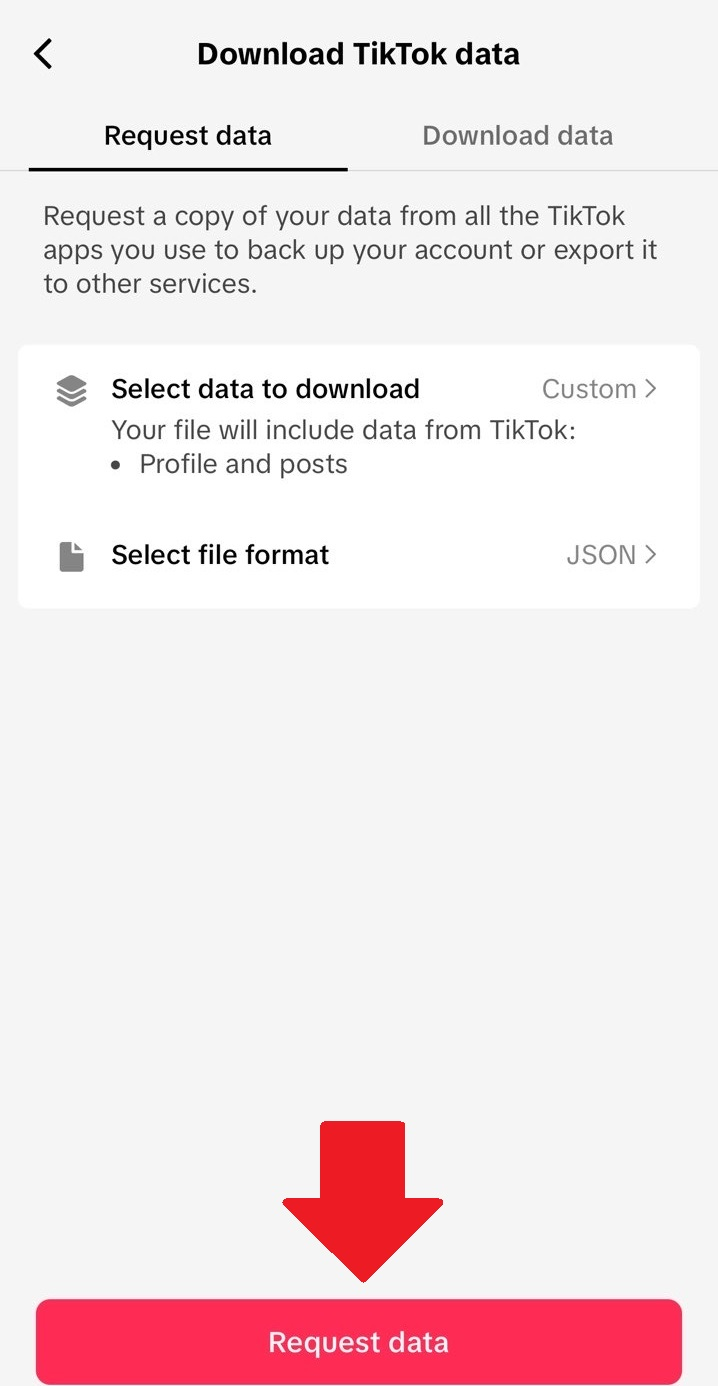
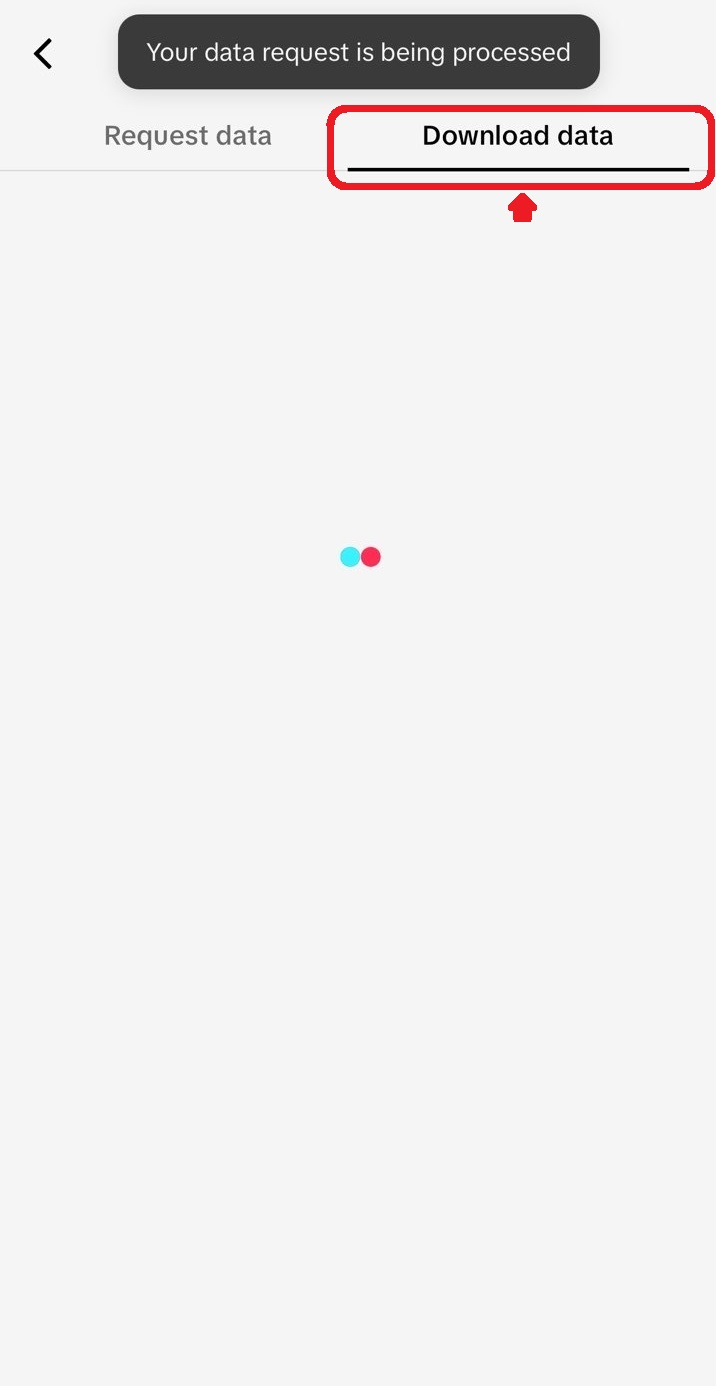
Improved to handle large follower sizes (~<1m)

diff --git a/js/unfollow.js b/js/unfollow.js
@@ -7,14 +7,18 @@ const analyzeButton = document.getElementById('analyzeButton');
 
 // Initially, disable Analyze button
 analyzeButton.disabled = true;
+
 document.getElementById('uploadForm').addEventListener('submit', function(e) {
 	e.preventDefault();
+	// Disable Analyze button to prevent duplicate requests
+	analyzeButton.disabled = true;
 
 	// Prepare results div
 	const statusDiv = document.getElementById('status');
 	const resultsPre = document.getElementById('results');
 	resultsPre.textContent = '';
 	statusDiv.textContent = '';
+	statusDiv.innerHTML = '<span class="loading">Sending data to server...</span>';
 
 	if (fileInput.files.length === 0) {
 		alert('Please select a JSON or ZIP file.');
@@ -24,8 +28,10 @@ document.getElementById('uploadForm').addEventListener('submit', function(e) {
 	const file = fileInput.files[0];
 
 	// Define size limits based on file type
-	const maxJsonSize = 15 * 1024 * 1024; // 15MB
-	const maxZipSize = 2 * 1024 * 1024;   // 2MB
+	// 1m followers is ~95MB
+	// AWS payloads are limited to 10MB. This cannot be changed. This is one of the main reasons for the change in format.
+	const maxJsonSize = 100 * 1024 * 1024; // 100MB
+	const maxZipSize = 15 * 1024 * 1024;   // 15MB
 
 	// Determine file type and validate size
 	const fileNameLower = file.name.toLowerCase();
@@ -37,7 +43,6 @@ document.getElementById('uploadForm').addEventListener('submit', function(e) {
 		maxFileSize = maxJsonSize;
 	} else {
 		alert('Unsupported file type. Please upload a .json or .zip file.');
-		analyzeButton.disabled = false;
 		return;
 	}
 
@@ -46,126 +51,123 @@ document.getElementById('uploadForm').addEventListener('submit', function(e) {
 		return;
 	}
 
-	// Function to process JSON data
-	const processJsonData = (jsonData) => {
-		try {
-			if (!jsonData.hasOwnProperty("Profile And Settings")) {
-				throw new Error('Invalid file');
-			}
-		} catch (err) {
-			analyzeButton.disabled = true;
-			statusDiv.textContent = 'Error: ' + err.message;
-			return;
-		}
-
-		// Extract only required nested data; disable misclicks
-		const extractedData = {};
-		analyzeButton.disabled = true;
-
-		try {
-			if (
-				jsonData["Profile And Settings"] &&
-				jsonData["Profile And Settings"]["Follower"] &&
-				jsonData["Profile And Settings"]["Follower"]["FansList"]
-			) {
-				extractedData["Profile And Settings"] = {
-					...jsonData["Profile And Settings"],
-					Follower: {
-						FansList: jsonData["Profile And Settings"]["Follower"]["FansList"]
-					}
-				};
-			} else {
-				throw new Error('Required nested data not found');
-			}
-		} catch (err) {
-			alert('Could not extract the required data: ' + err.message);
-			return;
-		}
-
-		// Prepare payload for API
-		statusDiv.innerHTML = '<span class="loading">Sending data to server...</span>';
-		const payload = extractedData;
-
+	// Function to send an empty POST to log request
+	const logRequest = () => {
 		fetch(apiUrl, {
 			method: 'POST',
-			headers: {
-				'Content-Type': 'application/json'
-			},
-			body: JSON.stringify(payload)
+			headers: {'Content-Type': 'application/json'},
+			body: JSON.stringify({})
 		})
-		.then(response => {
-			if (response.status === 429) {
-				throw new Error('You have reached the maximum allowed requests per day. Please try again in 24 hours.');
+		.then(res => {
+			if (res.status === 429) {
+				return res.json().then(data => {
+					throw new Error(data.Error || 'Rate limit exceeded.');
+				});
 			}
-			if (!response.ok) {
-				throw new Error('Network response was not ok');
+			if (!res.ok) {
+				return res.json().then(data => {
+					throw new Error(data.message || 'Error logging request.');
+				});
 			}
-			return response.json();
+			// Successful logging
+			processFile(); // Proceed with file processing
 		})
-		.then(data => {
-			statusDiv.textContent = 'Analysis complete!';
-			displayResults(data);
-			document.getElementById('resultsHeader').style.display = 'block';
-			document.getElementById('results').style.display = 'block';
-		})
-		.catch(error => {
-			statusDiv.textContent = 'Error: ' + error.message;
+		.catch(err => {
+			statusDiv.textContent = 'Error: ' + err.message;
 		});
 	};
 
-	// Handle ZIP files
-	if (file.name.endsWith('.zip')) {
-		const reader = new FileReader();
-		reader.onload = function(e) {
-			JSZip.loadAsync(e.target.result)
-			.then(zip => {
-				// Find JSON file inside zip
-				const jsonFileName = Object.keys(zip.files).find(filename => filename.endsWith('.json'));
-				if (!jsonFileName) {
-					alert('No JSON file found inside the ZIP archive.');
-					analyzeButton.disabled = false;
-					return;
+	const processFile = () => {
+		// Handle ZIP files
+		if (file.name.endsWith('.zip')) {
+			const reader = new FileReader();
+			reader.onload = function(e) {
+				JSZip.loadAsync(e.target.result)
+				.then(zip => {
+					const jsonFileName = Object.keys(zip.files).find(filename => filename.endsWith('.json'));
+					if (!jsonFileName) {
+						alert('No JSON file found inside the ZIP archive.');
+						return;
+					}
+					return zip.file(jsonFileName).async('string');
+				})
+				.then(jsonString => {
+					if (jsonString) {
+						const jsonData = JSON.parse(jsonString);
+						handleJsonData(jsonData);
+					}
+				})
+				.catch(err => {
+					alert('Error reading ZIP file: ' + err.message);
+				});
+			};
+			reader.readAsArrayBuffer(file);
+		} else if (file.name.endsWith('.json')) {
+			// Handle JSON files directly
+			const reader = new FileReader();
+			reader.onload = function(e) {
+				try {
+					const jsonData = JSON.parse(e.target.result);
+					handleJsonData(jsonData);
+				} catch (err) {
+					alert('Invalid JSON file. Please upload a valid TikTok JSON file.');
 				}
-				return zip.file(jsonFileName).async('string');
-			})
-			.then(jsonString => {
-				if (jsonString) {
-					const jsonData = JSON.parse(jsonString);
-					processJsonData(jsonData);
-				}
-			})
-			.catch(err => {
-				alert('Error reading ZIP file: ' + err.message);
-				analyzeButton.disabled = false;
-			});
-		};
-		reader.readAsArrayBuffer(file);
-	}
-	// Handle JSON files directly
-	else if (file.name.endsWith('.json')) {
-		const reader = new FileReader();
-		reader.onload = function(e) {
-			try {
-				const jsonData = JSON.parse(e.target.result);
-				processJsonData(jsonData);
-			} catch (err) {
-				alert('Invalid JSON file. Please upload a valid TikTok JSON file.');
-				analyzeButton.disabled = false;
-			}
-		};
-		reader.readAsText(file);
-	} else {
-		alert('Unsupported file type. Please upload a .json or .zip file.');
-		analyzeButton.disabled = false;
-	}
+			};
+			reader.readAsText(file);
+		} else {
+			alert('Unsupported file type. Please upload a .json or .zip file.');
+		}
+	};
+
+	const handleJsonData = (jsonData) => {
+		// Validate JSON structure
+		if (!jsonData['Profile And Settings']) {
+			document.getElementById('status').textContent = 'Error: Invalid file structure.';
+			return;
+		}
+
+		// Extract followers and followings
+		const profile = jsonData['Profile And Settings'];
+		const followers = new Set();
+		const followings = new Set();
+
+		const followerList = profile['Follower']?.['FansList'] || [];
+		followerList.forEach(item => {
+			const username = item['UserName'];
+			if (username) followers.add(username);
+		});
+
+		const followingList = profile['Following']?.['Following'] || [];
+		followingList.forEach(item => {
+			const username = item['UserName'];
+			if (username) followings.add(username);
+		});
+
+		// Compute who doesn't follow back
+		const notFollowingBack = Array.from(followings).filter(user => !followers.has(user));
+
+		// Display results
+		const resultsPre = document.getElementById('results');
+		if (notFollowingBack.length > 0) {
+			resultsPre.textContent = 'People you follow who do not follow back:\n' + notFollowingBack.join(', ');
+		} else {
+			resultsPre.textContent = 'Everyone you follow follows you back, or there are issues with the file.';
+		}
+		document.getElementById('resultsHeader').style.display = 'block';
+		document.getElementById('results').style.display = 'block';
+		statusDiv.textContent = 'Analysis complete!';
+	};
+
+	// Kick off the process
+	logRequest();
 });
 
-// Add click event to custom upload area to trigger file input
+// Upload area click
 uploadArea.addEventListener('click', () => {
 	fileInput.click();
 });
 
-// Change upload area text upon file selection
+// File selection change
 fileInput.addEventListener('change', () => {
 	const fileName = fileInput.files.length > 0 ? fileInput.files[0].name : '';
 	if (fileName) {
@@ -176,12 +178,3 @@ fileInput.addEventListener('change', () => {
 		analyzeButton.disabled = true;
 	}
 });
-
-function displayResults(data) {
-	const resultsPre = document.getElementById('results');
-	if (data.not_following_back && data.not_following_back.length > 0) {
-		resultsPre.textContent = 'People you follow who do not follow back:\n' + data.not_following_back.join(', ');
-	} else {
-		resultsPre.textContent = 'People you follow who do not follow back: 0 \nEither everyone you follow follows you back, or there are issues with the way TikTok generated your JSON file (This is very common).';
-	}
-}

diff --git a/js/faq.js b/js/faq.js
@@ -29,7 +29,11 @@ const faqData = [
 	},
 	{
 		title: "My friends list does not match my following list. I know I have an unfollower. Why does the site say I have 0 unfollowers?",
-		ans: "Unfortunately, data is not perfect. As large as TikTok and many social media platforms are, there are going to be mistakes, bugs, and errors in the way code is processed and handled. Many of your followers/following will show up as N/A (Not applicable), meaning that those accounts were banned, disabled, or their data was improperly processed. Many of your followers/following will also show up more than once, meaning that you or others quickly followed, unfollowed, and followed back. These mistakes are not permanent, and social media platforms perform a few checks per year to make sure these mistakes get fixed. If you notice a significant drop in followers or likes, it is most likely that the data was cleaned. Simply put: there is nothing you or this tool can do but wait for the data to get fixed."
+		ans: "Unfortunately, data is not perfect. As large as TikTok and many social media platforms are, there are going to be mistakes, bugs, and errors in the way code is processed and handled. These mistakes are not permanent, and social media platforms perform a few checks per year to make sure these mistakes get fixed. If you notice a significant drop in followers or likes, it is most likely that the data was cleaned. Simply put: there is nothing you or this tool can do but wait for the data to get fixed."
+	},
+	{
+		title: "What other issues can I expect from my data?",
+		ans: "Many of your followers/following will show up as N/A (Not applicable), meaning that those accounts were banned, disabled, or their data was improperly processed. Many of your followers/following will also show up more than once, meaning that you or others quickly followed, unfollowed, and followed back."
 	},	
 	{
 		title: "How often should I check for unfollowers?",
@@ -41,7 +45,7 @@ const faqData = [
 	},	
 	{
 		title: "The website says my file size is too big. What happened?",
-		ans: "Although we only require your followers and followings list, the script needs to parse all of your Profile and posts data. This includes every post your account has made. Post data is larger than followers data, and takes up most of the memory in the average user's data. To prevent excess data use, file sizes are limited for both .zip and .json formats. If you know how to extract .zip files, and if you know how to edit .json files, you can manually remove the 'Post' section, then upload the .json file."
+		ans: "Unless you have a million followers, make sure you are only requesting your followers and following data as shown in the images above. Old requests contains data on all of your posts, bloating your file size with unnecessary data. Only select to request your Profile and Settings data. Do not check more boxes than that."
 	},	
 	{
 		title: "I encountered an error in your site. How can I contact you about this?",

diff --git a/js/instructions.js b/js/instructions.js
@@ -1,16 +1,15 @@
 const descriptions = [
-	"1/12 \nGo to your profile and click on the menu icon (top-right corner)",
-	"2/12 \nClick on Settings and privacy",
-	"3/12 \nClick on Account",
-	"4/12 \nClick on Download your data",
-	"5/12 \nIn the Request data tab, click on Select data to download (gray text)",
-	"6/12 \nClick on Custom, then click on TikTok (gray right arrow)",
-	"7/12 \nSelect Profile and posts. Do not select the other options. Click Done",
-	"8/12 \nClick Select file format (gray text)",
-	"9/12 \nClick on JSON. Click Done",
-	"10/12 \nClick on Request data (bottom of the screen)",
-	"11/12 \nClick on the download data tab. Information may take a few minutes to load. Wait until your data is ready to download. This may take a few minutes, or up to a few hours (depending on file size, server issues, etc.)",
-	"12/12 \nWhen your data is ready to download, click Download (red button). The file should download as a .zip and not as a .json. You can now upload your .zip file directly to the area above"
+	"1/11 \nGo to your profile and click on the menu icon (top-right corner)",
+	"2/11 \nClick on Settings and privacy",
+	"3/11 \nClick on Account",
+	"4/11 \nClick on Download your data",
+	"5/11 \nIn the Request data tab, in the Select file format, click on the File format dropdown menu (gray text)",
+	"6/11 \nClick on JSON. Scroll down a bit",
+	"7/11 \nIn the Select data to download, in the TikTok section, press the Show More dropdown menu (gray text)",
+	"8/11 \nSelect Profile and Settings. Do not select anything else (It should say '1/10 selected' next to TikTok",
+	"9/11 \nClick on Request data (bottom of the screen)",
+	"10/11 \nClick on the download data tab. Wait until your data is ready to download (time depends on file size, server issues, etc.)",
+	"11/11 \nWhen your data is ready to download, click Download (red button). The file should download as a .zip and not as a .json. You can now upload your .zip file directly to the area above"
 ];
 
 const images = document.querySelectorAll('.image-container img');

diff --git a/js/compares.js b/js/compares.js
@@ -22,6 +22,21 @@ function handleFileSelection(fileInput, uploadArea, setFileSelected, callback) {
     fileInput.addEventListener('change', () => {
         const file = fileInput.files[0];
 
+        // Define size limits based on file type
+        // 1m followers is ~90MB
+        const maxJsonSize = 94 * 1024 * 1024; // 25MB
+        const maxZipSize = 4 * 1024 * 1024;   // 4MB
+
+        // Inside handleFileSelection, after 'const file = fileInput.files[0];'
+        if (file.size > (file.name.toLowerCase().endsWith('.zip') ? maxZipSize : maxJsonSize)) {
+            alert(`File size exceeds the limit for ${file.name.toLowerCase().endsWith('.zip') ? 'ZIP' : 'JSON'} files. Please upload a smaller file.`);
+            uploadArea.innerHTML = `<p>Upload your TikTok file</p>`;
+            setFileSelected(false);
+            compareButtonVisibility();
+            callback(null);
+            return;
+        }
+
         if (!file) {
             uploadArea.innerHTML = `<p>Upload your TikTok file</p>`;
             setFileSelected(false);

diff --git a/index.html b/index.html
@@ -47,7 +47,6 @@
           <img class="image" src="./assets/images/image8.jpeg" alt="Instructions image idx8" />
           <img class="image" src="./assets/images/image9.jpeg" alt="Instructions image idx9" />
           <img class="image" src="./assets/images/image10.jpeg" alt="Instructions image idx10" />
-          <img class="image" src="./assets/images/image11.jpeg" alt="Instructions image idx11" />
         </div>
         <button class="nav-button" id="nextBtn">&#8594;</button>
       </div>
@@ -103,7 +102,7 @@
 </div>
 <footer>
     <div class="footer">
-        <p>Last updated Jan 08, 2026</p>
+        <p>Last updated Jan 10, 2026</p>
         <p>©2025 PinkTok</p>
         <a href="https://github.com/eiguzman" target="_blank" rel="noopener noreferrer">View my GitHub profile</a>
     </div>

diff --git a/assets/style.css b/assets/style.css
@@ -394,7 +394,15 @@ footer {
     color: #25F4EE;
 }
 
+[data-theme='tiktok'] #faqPrevBtn {
+    color: #25F4EE;
+}
+
 [data-theme='tiktok'] #nextBtn {
+    color: #FE2C55;
+}
+
+[data-theme='tiktok'] #faqNextBtn {
     color: #FE2C55;
 }
 
